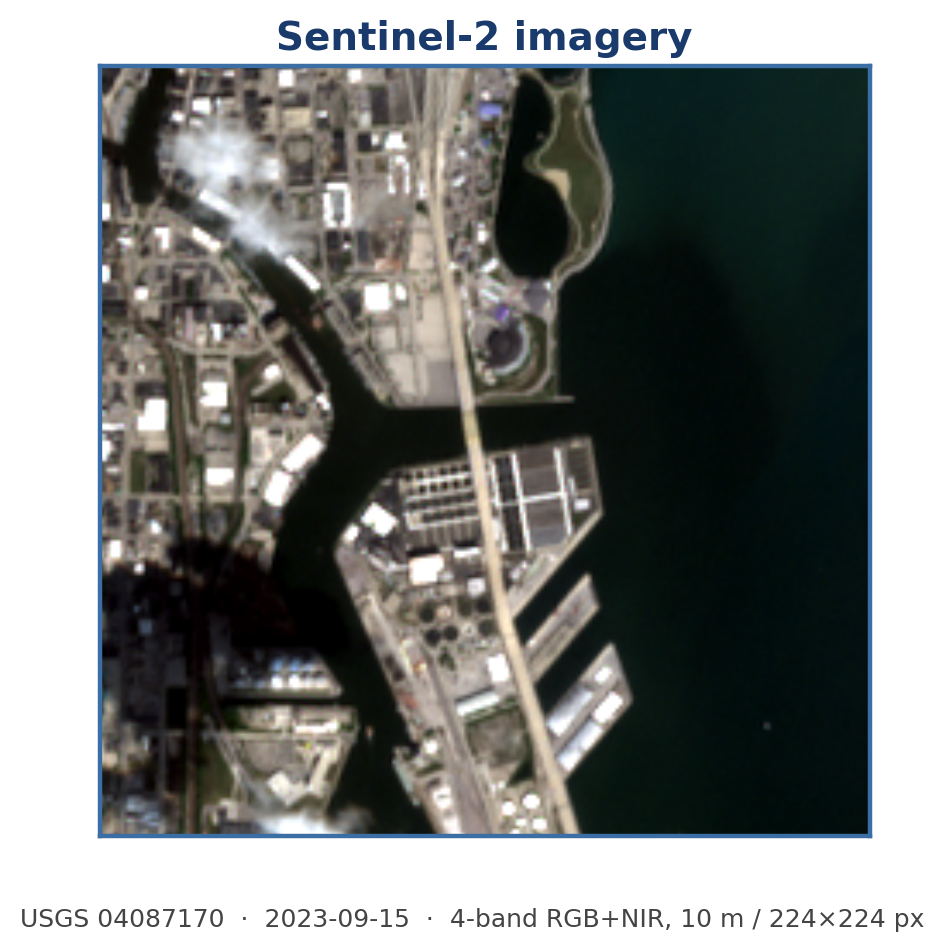
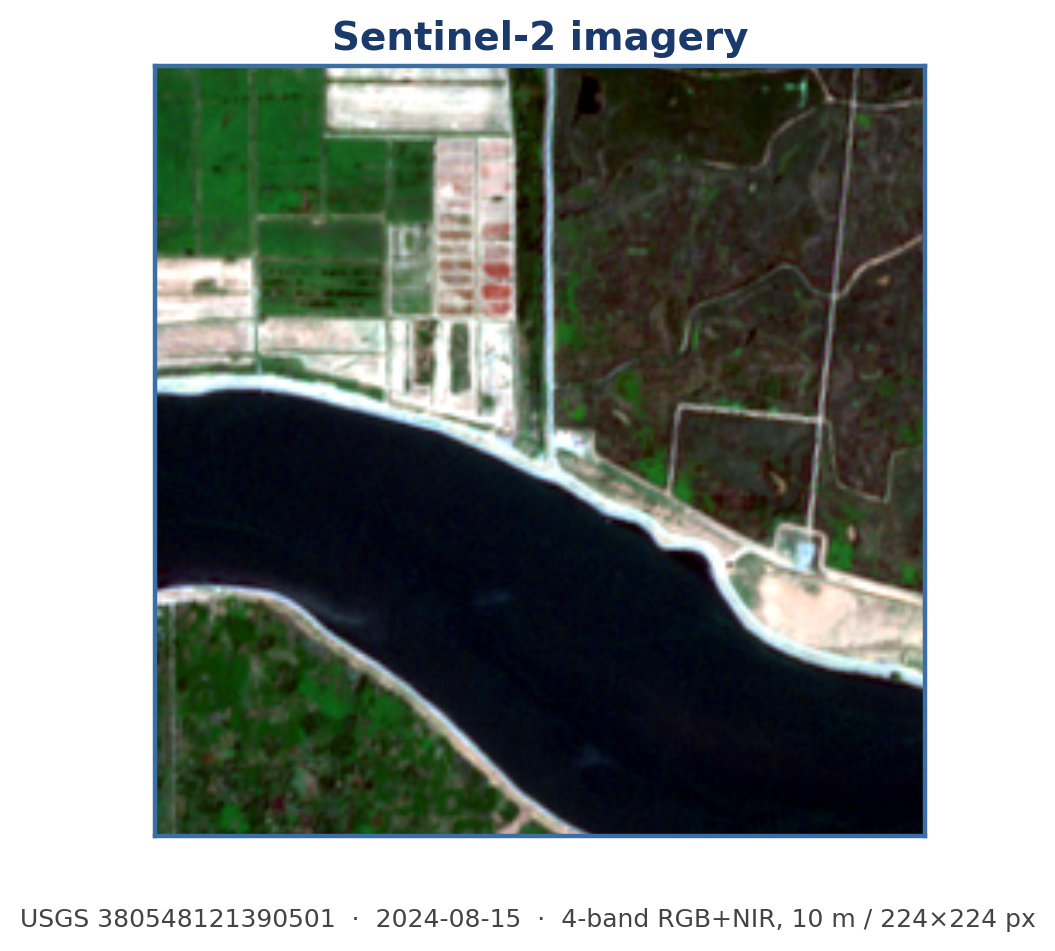
Improve Sentinel-2 imagery quality across poster figures
Stronger tile selection (sharpness + clear-water reward, harder cloud/haze/
nodata rejection, one tile per distinct USGS site) and a better true-color
render (per-channel percentile stretch + gamma + mild saturation boost).
Regenerated gallery, multimodal, crisis, and the satellite modality hero
(now the Sacramento-San Joaquin Delta channel, USGS 380548121390501).

diff --git a/scripts/make_poster_data_samples.py b/scripts/make_poster_data_samples.py
@@ -35,9 +35,12 @@ plt.rcParams.update({
 })
 
 
-def stretch_rgb(img4, lo=2, hi=98, gamma=0.85):
-    """img4: (4,H,W) reflectance -> RGB uint-ish float in [0,1].
-    bands order = B02,B03,B04,B08 -> R=B04(idx2) G=B03(idx1) B=B02(idx0)."""
+def stretch_rgb(img4, lo=2, hi=98, gamma=0.78, sat=1.18):
+    """img4: (4,H,W) reflectance -> RGB float in [0,1].
+    bands order = B02,B03,B04,B08 -> R=B04(idx2) G=B03(idx1) B=B02(idx0).
+    Per-channel percentile stretch + gamma + mild saturation boost for a
+    crisp, natural true-color render."""
+    from matplotlib.colors import rgb_to_hsv, hsv_to_rgb
     rgb = np.stack([img4[2], img4[1], img4[0]], axis=-1).astype(np.float32)
     out = np.empty_like(rgb)
     for c in range(3):
@@ -47,7 +50,9 @@ def stretch_rgb(img4, lo=2, hi=98, gamma=0.85):
             p_hi = p_lo + 1e-6
         out[..., c] = np.clip((ch - p_lo) / (p_hi - p_lo), 0, 1)
     out = np.power(out, gamma)
-    return out
+    hsv = rgb_to_hsv(out)
+    hsv[..., 1] = np.clip(hsv[..., 1] * sat, 0, 1)
+    return hsv_to_rgb(hsv)
 
 
 def ndwi(img4):
@@ -58,26 +63,27 @@ def ndwi(img4):
 
 
 def quality_score(img4):
-    """Higher = better candidate. Reward scenes with clear spatial detail AND
-    visible water; penalize nodata wedges, clouds/haze, and flat tiles."""
+    """Higher = better candidate. Reward sharp, detailed scenes with a clear
+    water body; strongly penalize clouds, haze, nodata wedges, and flat tiles."""
     rgb = np.stack([img4[2], img4[1], img4[0]], axis=0)
     var = float(rgb.std())
     bright = float(np.mean(rgb))
-    cloud_frac = float(np.mean(rgb > 0.55))
-    # nodata wedge: pixels black across all bands (swath edge / fill)
-    nodata_frac = float(np.mean(np.all(img4 < 0.02, axis=0)))
-    # haze: globally bright + low local contrast
-    haze = 1.0 if (bright > 0.30 and var < 0.06) else 0.0
-    # water presence via NDWI; reward tiles that actually contain a water body
+    cloud_frac = float(np.mean(rgb.max(0) > 0.40))             # bright cloud px
+    nodata_frac = float(np.mean(np.all(img4 < 0.02, axis=0)))  # swath-edge fill
+    p2, p98 = np.percentile(rgb, [2, 98])
+    contrast = float(p98 - p2)
+    blue_ratio = float(img4[0].mean() / (img4[2].mean() + 1e-6))   # B02/B04
+    haze = 1.0 if (contrast < 0.12 or (bright > 0.28 and contrast < 0.18)) else 0.0
+    # sharpness: mean gradient magnitude on the green band
+    g = img4[1]
+    sharp = float(np.abs(np.diff(g, axis=0)).mean()
+                  + np.abs(np.diff(g, axis=1)).mean())
     nd = ndwi(img4)
     water_frac = float(np.mean(nd > 0.0))
-    water_reward = 0.06 if 0.04 <= water_frac <= 0.75 else 0.0
-    return (var
-            + water_reward
-            - 2.0 * nodata_frac
-            - 1.5 * cloud_frac
-            - 0.10 * haze
-            - 0.4 * max(0, bright - 0.35))
+    water_term = 1.0 - abs(water_frac - 0.30) / 0.30
+    return (1.5 * max(0, water_term) + 6.0 * sharp + 0.8 * var
+            - 6.0 * cloud_frac - 2.5 * nodata_frac - 1.2 * haze
+            - 0.6 * max(0, blue_ratio - 1.15) - 0.5 * max(0, bright - 0.30))
 
 
 def load_pairs():
@@ -87,41 +93,41 @@ def load_pairs():
     return d, meta, targets
 
 
-def pick_samples(d, meta, targets, n=12, seed=7):
-    """Select geographically diverse, high-quality tiles with valid WQ."""
+def pick_samples(d, meta, targets, n=12, seed=20):
+    """Select high-quality, crisp tiles with a clear water body and valid WQ,
+    one tile per distinct USGS site for geographic diversity."""
     rng = np.random.default_rng(seed)
     imgs = d["images"]
     N = imgs.shape[0]
-    # candidate pool: sample a manageable subset, score, then diversify by state/lon
-    cand = rng.choice(N, size=min(1500, N), replace=False)
+    cand = rng.choice(N, size=min(4000, N), replace=False)
     scored = []
     for i in cand:
         t = targets[i]
-        n_valid = int(np.sum(~np.isnan(t)))
-        if n_valid < 4:
+        if int(np.sum(~np.isnan(t))) < 4:
             continue
         im = np.array(imgs[i])
         if not np.isfinite(im).all():
             continue
-        s = quality_score(im)
-        scored.append((s, int(i)))
+        scored.append((quality_score(im), int(i)))
     scored.sort(reverse=True)
-    # take top quality, then greedily spread by longitude to maximize geo diversity
-    top = [i for _, i in scored[:120]]
-    chosen, used_lon = [], []
+    top = [i for _, i in scored[:300]]
+    # one tile per site, spread by longitude
+    chosen, used_sites, used_lon = [], set(), []
     for i in top:
-        lon = meta[i]["lon"]
-        if all(abs(lon - u) > 1.2 for u in used_lon):
-            chosen.append(i)
-            used_lon.append(lon)
+        site = meta[i]["site_id"]; lon = meta[i]["lon"]
+        if site in used_sites:
+            continue
+        if all(abs(lon - u) > 0.8 for u in used_lon):
+            chosen.append(i); used_sites.add(site); used_lon.append(lon)
         if len(chosen) >= n:
             break
-    # backfill if geo filter was too strict
+    # backfill (still unique sites) if geo filter too strict
     for i in top:
         if len(chosen) >= n:
             break
-        if i not in chosen:
-            chosen.append(i)
+        site = meta[i]["site_id"]
+        if site not in used_sites:
+            chosen.append(i); used_sites.add(site)
     return chosen[:n]
 
 

diff --git a/scripts/make_modality_samples.py b/scripts/make_modality_samples.py
@@ -29,23 +29,27 @@ ACCENT = "#1a3a6b"
 # --------------------------------------------------------------------------
 # SATELLITE
 # --------------------------------------------------------------------------
-def stretch_rgb(img4, lo=2, hi=98, gamma=0.85):
+def stretch_rgb(img4, lo=2, hi=98, gamma=0.78, sat=1.18):
+    from matplotlib.colors import rgb_to_hsv, hsv_to_rgb
     rgb = np.stack([img4[2], img4[1], img4[0]], axis=-1).astype(np.float32)
     out = np.empty_like(rgb)
     for c in range(3):
         ch = rgb[..., c]
         p_lo, p_hi = np.percentile(ch, [lo, hi])
         out[..., c] = np.clip((ch - p_lo) / (p_hi - p_lo + 1e-6), 0, 1)
-    return np.power(out, gamma)
+    out = np.power(out, gamma)
+    hsv = rgb_to_hsv(out)
+    hsv[..., 1] = np.clip(hsv[..., 1] * sat, 0, 1)
+    return hsv_to_rgb(hsv)
 
 
 def satellite_ax(ax):
     d = np.load("data/processed/satellite/drone_wq_pairs.npz",
                 allow_pickle=True, mmap_mode="r")
     meta = json.loads(str(d["metadata"]))
-    # index 932 = USGS 04087170 Milwaukee waterfront / Lake Michigan harbor:
-    # clear water + urban land contrast, ~48% water by NDWI
-    i = 932
+    # index 11650 = USGS 380548121390501 (Sacramento–San Joaquin Delta, CA):
+    # vivid turbid channel through farmland, crisp, ~30% water by NDWI
+    i = 11650
     im = np.array(d["images"][i])
     ax.imshow(stretch_rgb(im), interpolation="bilinear")
     m = meta[i]